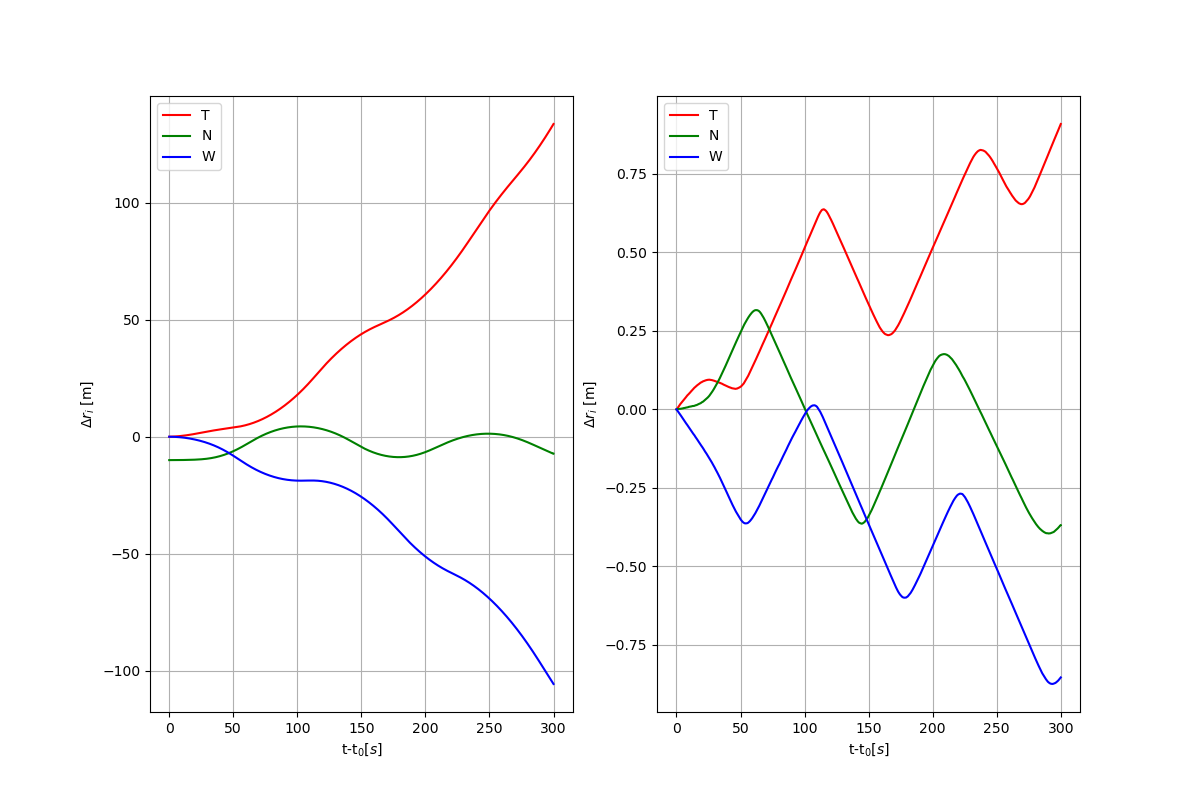
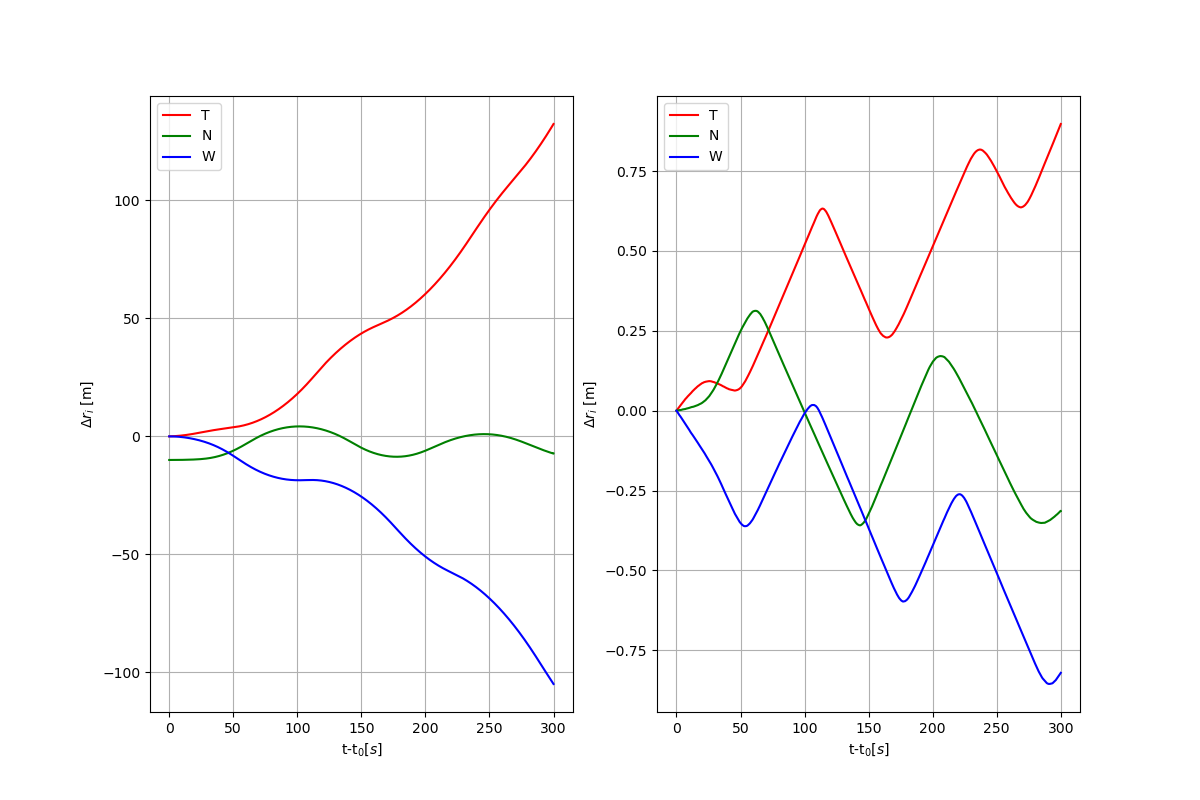
Fixed thrust image mistake

diff --git a/post_process_utils.py b/post_process_utils.py
@@ -15,10 +15,13 @@ def plot_trajectory_2d(axis, inertial_states, dep_vars):
     axis.plot(time, delta_pos_tnw[:,0], label = "T", color = "red", linestyle = "solid")
     axis.plot(time, delta_pos_tnw[:,1], label = "N", color = "green", linestyle = "solid")
     axis.plot(time, delta_pos_tnw[:,2], label = "W", color = "blue", linestyle = "solid")
-    axis.set_xlabel("t-t$_{0} [s]$")
+    axis.set_xlim(time[0], time[-1])
+    axis.set_title("Position of chaser in target TNW frame")
+    axis.set_xlabel("t-t$_{0}$ [s]")
     axis.set_ylabel("$\Delta r_{i}$ [m]")
     axis.grid()
     axis.legend()
+
     return axis
 
 def plot_velocity_2d(axis, inertial_states, dep_vars):
@@ -35,27 +38,53 @@ def plot_velocity_2d(axis, inertial_states, dep_vars):
     axis.plot(time, delta_vel_tnw[:,0], label = "T", color = "red", linestyle = "solid")
     axis.plot(time, delta_vel_tnw[:,1], label = "N", color = "green", linestyle = "solid")
     axis.plot(time, delta_vel_tnw[:,2], label = "W", color = "blue", linestyle = "solid")
-    axis.set_xlabel("t-t$_{0} [s]$")
-    axis.set_ylabel("$\Delta r_{i}$ [m]")
+    axis.set_xlim(time[0], time[-1])
+    axis.set_title("Velocity of chaser in target TNW frame")
+    axis.set_xlabel("t-t$_{0}$ [s]")
+    axis.set_ylabel("$\Delta v_{i}$ [m]")
     axis.grid()
     axis.legend()
+
     return axis
 
 
-def plot_applied_thrust(axis, dep_vars):
+def plot_thrust_body_frame(axis, dep_vars):
     time = dep_vars[:,0]
     n_times = len(time)
-    target_states = inertial_states[:,1:7]
 
+    inertial_thrust = dep_vars[:,19:22]
+    inertial_to_body_array = dep_vars[:, 10:19]
+    inertial_to_body_matrix = inertial_to_body_array.reshape(n_times,3,3)
+    body_thrust = np.array([np.matmul(inertial_to_body_matrix[i, :, :], inertial_thrust[i]) for i in range(n_times)])
+
+    axis.plot(time, body_thrust[:,0], label = "X", color = "red", linestyle = "solid")
+    axis.plot(time, body_thrust[:,1], label = "Y", color = "green", linestyle = "solid")
+    axis.plot(time, body_thrust[:,2], label = "Z", color = "blue", linestyle = "solid")
+    axis.set_xlim(time[0], time[-1])
+    axis.set_title("Thrust in chaser body frame")
+    axis.set_xlabel("t-t$_{0}$ [s]")
+    axis.set_ylabel("a$_{i}$ [m]")
+    axis.grid()
+    axis.legend()
+
+    return axis
+
+def plot_thrust_TNW_frame(axis, dep_vars):
+    time = dep_vars[:,0]
+    n_times = len(time)
+
+    inertial_thrust = dep_vars[:,19:22]
     tnw_to_inertial_array = dep_vars[:, 1:10]
     tnw_to_inertial_matrix = tnw_to_inertial_array.reshape(n_times,3,3)
-    delta_vel_tnw = np.array([np.matmul(np.transpose(tnw_to_inertial_matrix[i, :, :]), delta_state_inertial[i,3:6]) for i in range(n_times)])
+    thrust_TNW = np.array([np.matmul(np.transpose(tnw_to_inertial_matrix[i, :, :]), inertial_thrust[i]) for i in range(n_times)])
 
-    axis.plot(time, delta_vel_tnw[:,0], label = "T", color = "red", linestyle = "solid")
-    axis.plot(time, delta_vel_tnw[:,1], label = "N", color = "green", linestyle = "solid")
-    axis.plot(time, delta_vel_tnw[:,2], label = "W", color = "blue", linestyle = "solid")
-    axis.set_xlabel("t-t$_{0} [s]$")
-    axis.set_ylabel("$\Delta r_{i}$ [m]")
+    axis.plot(time, thrust_TNW[:,0], label = "T", color = "red", linestyle = "solid")
+    axis.plot(time, thrust_TNW[:,1], label = "N", color = "green", linestyle = "solid")
+    axis.plot(time, thrust_TNW[:,2], label = "W", color = "blue", linestyle = "solid")
+    axis.set_xlim(time[0], time[-1])
+    axis.set_title("Thrust in target TNW frame")
+    axis.set_xlabel("t-t$_{0}$ [s]")
+    axis.set_ylabel("a$_{i}$ [m]")
     axis.grid()
     axis.legend()
     return axis

diff --git a/sim_utils.py b/sim_utils.py
@@ -33,7 +33,7 @@ class SimSettings:
         #self.max_simtime = 100
         self.bodies_to_propagate = ['Target', 'Chaser']
         self.central_bodies = ['Earth', 'Earth']
-        self.integrator_stepsize = 0.1
+        self.integrator_stepsize = 1.0
         self.propagator = propagation_setup.propagator.encke
         self.chaser_GNC = ChaserGNC(self.thrust, self.integrator_stepsize) 
         self.bodies = self.get_environment_settings()
@@ -114,7 +114,8 @@ class SimSettings:
     
     def get_dependent_variables_to_save(self):
         dependent_variables_to_save = [propagation_setup.dependent_variable.tnw_to_inertial_rotation_matrix('Target', 'Earth'),
-                                       propagation_setup.dependent_variable.single_acceleration(propagation_setup.acceleration.thrust_acceleration_type , "Chaser", "Earth")                  
+                                       propagation_setup.dependent_variable.inertial_to_body_fixed_rotation_frame('Chaser'),
+                                       propagation_setup.dependent_variable.single_acceleration(propagation_setup.acceleration.thrust_acceleration_type , 'Chaser', 'Chaser')                  
                                        ]
         return dependent_variables_to_save
     

diff --git a/analyze_model.py b/analyze_model.py
@@ -59,8 +59,10 @@ dep_vars = dynamics_simulator.dependent_variable_history
 states_array = result2array(states)
 dep_vars_array = result2array(dep_vars)
 
-fig, (ax1, ax2) = plt.subplots(1,2, figsize=(12,8))
+fig, ((ax1, ax2), (ax3, ax4)) = plt.subplots(2,2, figsize=(10,8))
 ax1 = plot_trajectory_2d(ax1, states_array, dep_vars_array)
 ax2 = plot_velocity_2d(ax2, states_array, dep_vars_array)
-fig.show()
-fig.savefig("./plots/2d_tajectory.png")
+ax3 = plot_thrust_body_frame(ax3, dep_vars_array)
+ax4 = plot_thrust_TNW_frame(ax4, dep_vars_array)
+fig.tight_layout()
+fig.savefig("./plots/model_analysis.png")

diff --git a/test.py b/test.py
@@ -1,4 +1,4 @@
-nan = float("NaN")
-num = float(10)
+a = [0,1,2,3,4]
 
-print(num < nan)
+print(a[0:2])
+print(a[2:5])
